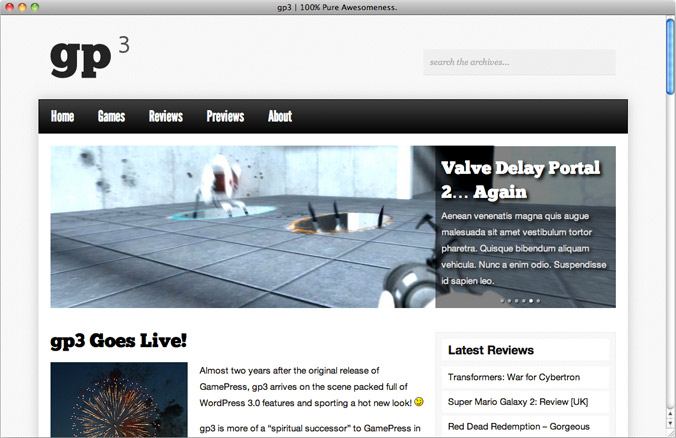
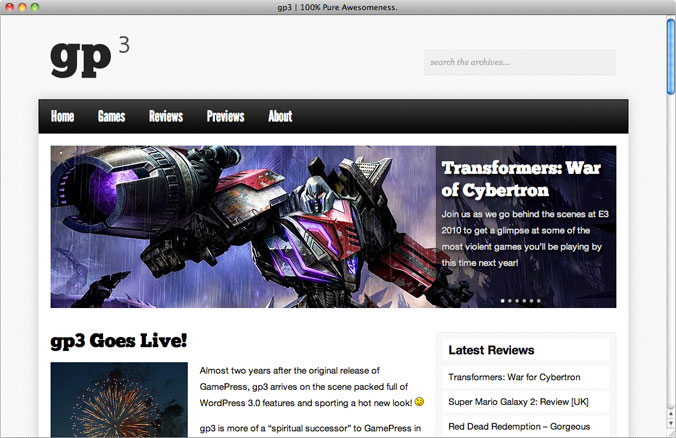
All portfolio items added. Latest portfolio items display on home page.

diff --git a/content/index.html b/content/index.html
@@ -5,13 +5,13 @@ title: Home
 <h1 id="bigfeature">Lorem ipsum dolor sit amet, consectetur adipiscing elit. Nullam <a href="#">quam leo</a> sit amet pretium eu, feugiat ut risus.</h1>
 
 <section id="portfolio-preview" class="clearfix">
+	
 	<p>
-		<a href="#">
-			<img src="/images/portfolio/jobsabroad/thumb.jpg" alt="JobsAbroad.ie preview" />
+	<% sorted_portfolio_items[0,2].each do |i| %>
+		<a href="<%= relative_path_to i %>" title="View '<%= i[:title] %>'">
+			<img src="/assets/portfolio/<%= i[:images] %>/<%= i[:thumb] %>" alt="<%= i[:title] %> thumbnail preview" />
 		</a>
-		<a href="#">
-			<img src="/images/portfolio/gp3/thumb.jpg" alt="GamePress 3 preview" />
-		</a>
+	<% end %>
 	</p>
 	<p class="stylish"><a href="/work/">See more of my work</a></p>
 </section>

diff --git a/content/assets/css/style.less b/content/assets/css/style.less
@@ -140,7 +140,7 @@ h1#bigfeature {
 }
 
 #portfolio-preview {
-	margin-bottom: 50px;
+	margin-bottom: 15px;
 	img {
 	}
 	p:first-child {
@@ -207,7 +207,10 @@ h1#bigfeature {
 }
 
 #portfolio article {
-	margin-bottom: 70px;
+	margin-bottom: 40px;
+	:last-child {
+		margin-bottom: 0;
+	}
 	img {
 		.rounded_corners;
 		margin-left: -90px;
@@ -249,6 +252,9 @@ h1.tutsplus {
 
 #blog article {
 	margin-bottom: 70px;
+	:last-child {
+		margin-bottom: 0;
+	}
 }
 
 article h1 a:link,

diff --git a/content/work.html b/content/work.html
@@ -10,8 +10,8 @@ title: A New Item
 	
 	<% sorted_portfolio_items.each do |i| %>
 		<article>
-			<a href="<%= relative_path_to i %>">
-				<img src="/assets/portfolio/<%= i[:images] %>/<%= i[:large] %>" />
+			<a href="<%= relative_path_to i %>" title="View '<%= i[:title] %>'">
+				<img src="/assets/portfolio/<%= i[:images] %>/<%= i[:large] %>" alt="<%= i[:title] %> preview" />
 			</a>
 		</article>
 	<% end %>

diff --git a/layouts/default.html b/layouts/default.html
@@ -10,6 +10,10 @@
 		<link rel="stylesheet" href="http://fonts.googleapis.com/css?family=Yanone+Kaffeesatz:regular,bold">
   </head>
   <body>
+		<!-- 
+			take screenshots with safari at 1123x728, all toolbars hidden
+			should produce a 'shadowed' screenshot at 1201x800
+		-->
     <div id="container">
 			<header class="clearfix">
 				<h1><a href="/" class="ir">Dan Harper</a></h1>
